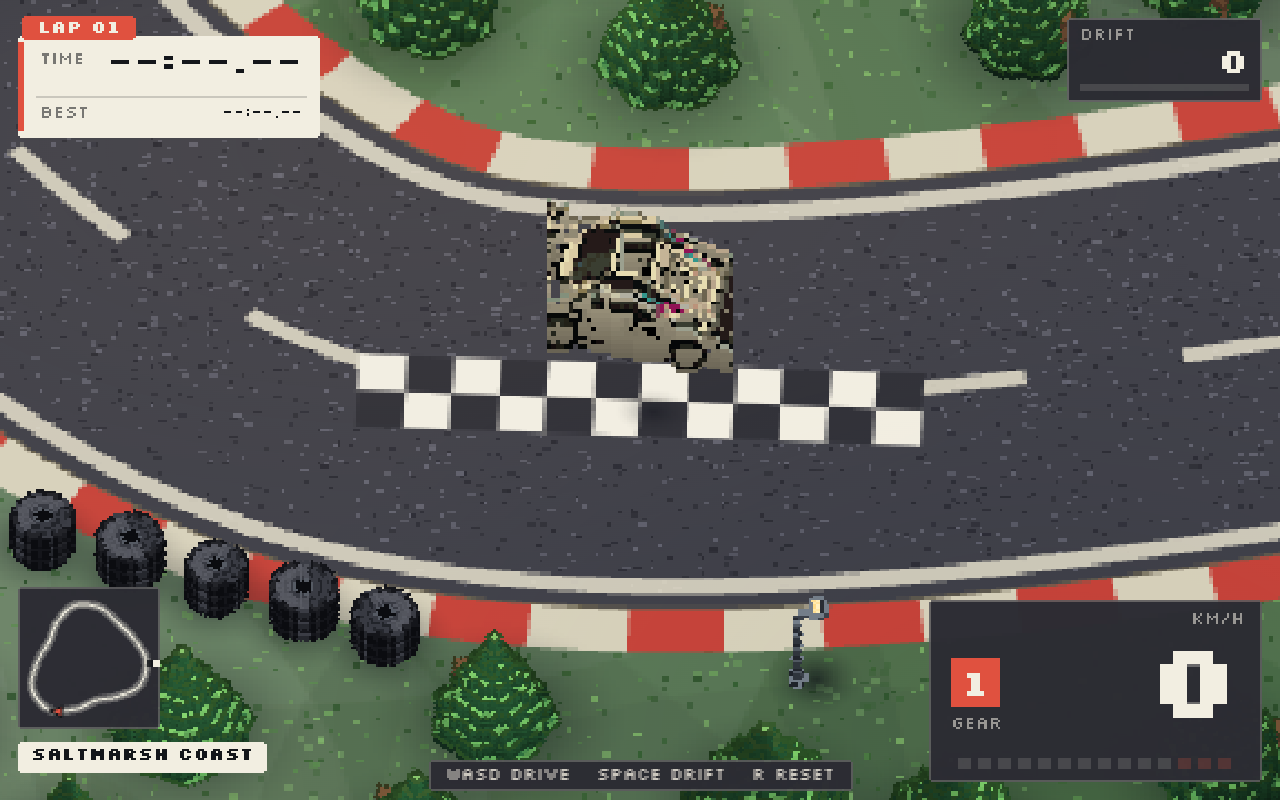
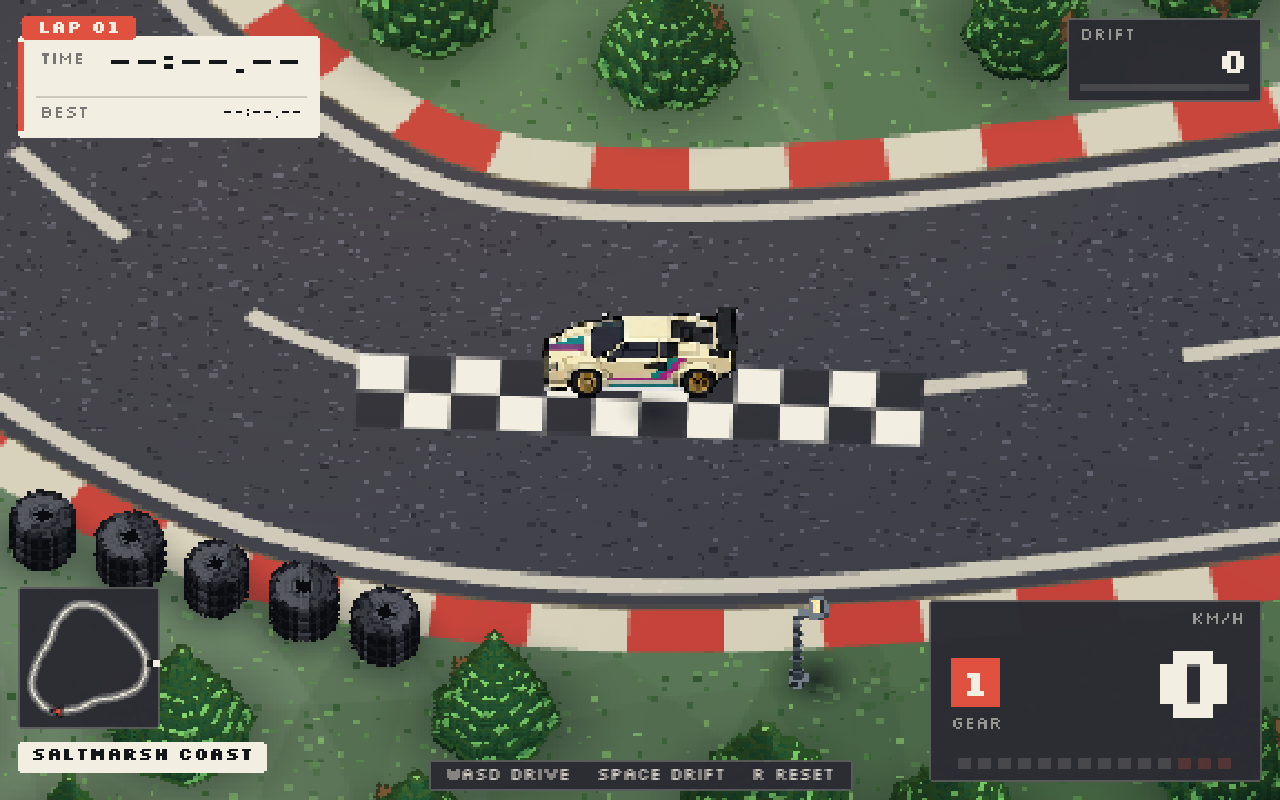
Drawn 8-direction turntable for the hero car, replacing the stacked sprite

Changed region(s): [[0.4062, 0.25, 0.5938, 0.5]]

diff --git a/src/car.ts b/src/car.ts
@@ -38,7 +38,7 @@ export class Car {
   async setSkin(file: string) {
     const sheet = await loadSheet(`/sprites/${file}.png`);
     if (this.model) this.group.remove(this.model);
-    this.model = new DirectionalCar(sheet, 32, 3.0, 43, 61);
+    this.model = new DirectionalCar(sheet, 8, 3.4, 65, 56);
     this.group.add(this.model);
   }
 
@@ -122,10 +122,8 @@ export class Car {
 
     this.sync();
     // heading -> baked direction; the sheet's frame 0 points up (-Z)
-    const hx = -Math.sin(this.heading);
-    const hz = -Math.cos(this.heading);
-    const turn = Math.atan2(hz, hx) - Math.PI * 0.5;
-    const frame = Math.round((this.heading / (Math.PI * 2)) * this.model.dirs) + 16;
+    // drawn turntable: frame 0 faces the camera, so driving away is +180deg
+    const frame = Math.round(((this.heading + Math.PI) / (Math.PI * 2)) * this.model.dirs);
     this.model.setFrame(frame);
     const t = performance.now() * 0.001;
     this.model.position.y = Math.sin(t * 46) * 0.0016 * Math.min(1, Math.abs(vLong) / 8);

diff --git a/tools/clean_sheet.py b/tools/clean_sheet.py
@@ -1,0 +1,99 @@
+"""Build a crisp sprite-stack sheet from one top-down drawing.
+
+The four-view carve repeats the livery down every slice, which turns the car
+into noise. This keeps the drawing for the top slice and builds a clean body
+below it: flat panels, a hard outline, a dark underbody and real tyres that
+stick out past the bodywork.
+
+  python tools/clean_sheet.py top.png out.png --slices 12 --scale 2
+"""
+import argparse
+import numpy as np
+from PIL import Image
+
+BODY_LIT = np.array([236, 227, 205], np.float32)
+BODY = np.array([206, 195, 168], np.float32)
+BODY_D = np.array([142, 131, 108], np.float32)
+BODY_X = np.array([74, 68, 56], np.float32)
+GLASS = np.array([38, 44, 58], np.float32)
+OUTLINE = np.array([18, 16, 22], np.float32)
+TYRE = np.array([16, 16, 22], np.float32)
+HUB = np.array([198, 172, 92], np.float32)
+
+
+def main():
+    p = argparse.ArgumentParser()
+    p.add_argument("top")
+    p.add_argument("out")
+    p.add_argument("--slices", type=int, default=12)
+    p.add_argument("--scale", type=int, default=2)
+    a = p.parse_args()
+
+    src = Image.open(a.top).convert("RGBA")
+    if a.scale != 1:
+        src = src.resize((src.width * a.scale, src.height * a.scale), Image.NEAREST)
+    top = np.array(src)
+    h, w = top.shape[:2]
+    mask = top[..., 3] > 8
+
+    ys, xs = np.nonzero(mask)
+    y0, y1, x0, x1 = ys.min(), ys.max(), xs.min(), xs.max()
+    length = y1 - y0 + 1
+    wheel_h = max(4, int(length * 0.13))
+    wheel_w = max(4, int(w * 0.22))
+
+    def box(cy, cx, hh, hw):
+        yy, xx = np.mgrid[0:h, 0:w]
+        return (np.abs(yy - cy) <= hh) & (np.abs(xx - cx) <= hw)
+
+    wheels = np.zeros((h, w), bool)
+    axles = [y0 + length * 0.22, y0 + length * 0.78]
+    for ay in axles:
+        for ax in (x0 - wheel_w * 0.35, x1 + wheel_w * 0.35):
+            wheels |= box(ay, ax, wheel_h, wheel_w * 0.5)
+
+    # silhouette edge, 1px
+    pad = np.pad(mask, 1)
+    edge = mask & ~(pad[:-2, 1:-1] & pad[2:, 1:-1] & pad[1:-1, :-2] & pad[1:-1, 2:])
+    edge_w = wheels & ~(np.pad(wheels, 1)[:-2, 1:-1] & np.pad(wheels, 1)[2:, 1:-1]
+                        & np.pad(wheels, 1)[1:-1, :-2] & np.pad(wheels, 1)[1:-1, 2:])
+
+    n = a.slices
+    row = np.zeros((h, w * n, 4), np.uint8)
+    cabin_y0 = y0 + length * 0.30
+    cabin_y1 = y0 + length * 0.72
+
+    for z in range(n):
+        sl = np.zeros((h, w, 4), np.uint8)
+        if z == n - 1:
+            sl[mask] = top[mask]
+            sl[edge, :3] = OUTLINE
+        else:
+            t = z / max(n - 2, 1)
+            body = BODY_X * (1 - t) + BODY * t
+            if z == n - 2:
+                body = BODY_LIT
+            sl[mask, :3] = body
+            sl[mask, 3] = 255
+            # glass band on the flanks, where the cabin is
+            if z >= n - 5 and z <= n - 2:
+                band = mask & (np.mgrid[0:h, 0:w][0] > cabin_y0) & (np.mgrid[0:h, 0:w][0] < cabin_y1)
+                sl[band, :3] = GLASS
+            sl[edge, :3] = OUTLINE
+            if z <= 2:
+                sl[wheels & ~edge_w, :3] = TYRE
+                sl[edge_w, :3] = OUTLINE
+                if z == 1:
+                    hub = np.zeros((h, w), bool)
+                    for ay in axles:
+                        for ax in (x0 - wheel_w * 0.35, x1 + wheel_w * 0.35):
+                            hub |= box(ay, ax, wheel_h * 0.35, wheel_w * 0.22)
+                    sl[hub & wheels, :3] = HUB
+        row[:, z * w:(z + 1) * w] = sl
+
+    Image.fromarray(row).save(a.out)
+    print(f"{n} slices of {w}x{h} -> {a.out}")
+
+
+if __name__ == "__main__":
+    main()

diff --git a/tools/turntable.py b/tools/turntable.py
@@ -1,0 +1,53 @@
+"""Cut a drawn turntable sheet into N aligned direction frames.
+
+  python tools/turntable.py sheet.png out.png --cols 4 --rows 2 --scale 0.22
+"""
+import argparse
+import numpy as np
+from PIL import Image
+
+
+def main():
+    p = argparse.ArgumentParser()
+    p.add_argument("sheet")
+    p.add_argument("out")
+    p.add_argument("--cols", type=int, default=4)
+    p.add_argument("--rows", type=int, default=2)
+    p.add_argument("--scale", type=float, default=0.22)
+    a = p.parse_args()
+
+    src = Image.open(a.sheet).convert("RGB")
+    w, h = src.size
+    cw, ch = w // a.cols, h // a.rows
+
+    cells = []
+    for r in range(a.rows):
+        for c in range(a.cols):
+            cell = src.crop((c * cw, r * ch, (c + 1) * cw, (r + 1) * ch)).convert("RGBA")
+            arr = np.array(cell).astype(int)
+            # white background -> transparent
+            white = (arr[..., 0] > 235) & (arr[..., 1] > 235) & (arr[..., 2] > 235)
+            arr[..., 3] = np.where(white, 0, 255)
+            cell = Image.fromarray(arr.astype(np.uint8))
+            bbox = cell.getbbox()
+            if bbox:
+                cell = cell.crop(bbox)
+            cells.append(cell)
+
+    fw = max(c.width for c in cells) + 6
+    fh = max(c.height for c in cells) + 6
+    out = Image.new("RGBA", (fw * len(cells), fh), (0, 0, 0, 0))
+    for i, cell in enumerate(cells):
+        x = i * fw + (fw - cell.width) // 2
+        y = fh - 3 - cell.height
+        out.alpha_composite(cell, (x, y))
+
+    if a.scale != 1.0:
+        out = out.resize((max(1, int(out.width * a.scale)), max(1, int(out.height * a.scale))), Image.NEAREST)
+
+    out.save(a.out)
+    print(f"{len(cells)} frames of {out.width // len(cells)}x{out.height} -> {a.out}")
+
+
+if __name__ == "__main__":
+    main()

diff --git a/tools/bake_directions.py b/tools/bake_directions.py
@@ -29,7 +29,7 @@ def main():
 
     fw = int(math.ceil(w * 1.45)) + 2
     fh = int(math.ceil(h * a.squash)) + a.slices + 4
-    cx, cy = fw // 2, fh - a.slices - 2
+    cx, cy = fw // 2, fh - 2
 
     out = Image.new("RGBA", (fw * a.dirs, fh), (0, 0, 0, 0))
     for d in range(a.dirs):
@@ -39,7 +39,7 @@ def main():
             piece = sl[z].rotate(turn, resample=Image.NEAREST, expand=True)
             sq = piece.resize((piece.width, max(1, int(round(piece.height * a.squash)))), Image.NEAREST)
             x = cx - sq.width // 2
-            y = cy + sq.height // 2 - z - sq.height + 1
+            y = cy - z - sq.height
             frame.alpha_composite(sq, (x, y))
         out.paste(frame, (d * fw, 0))
 
